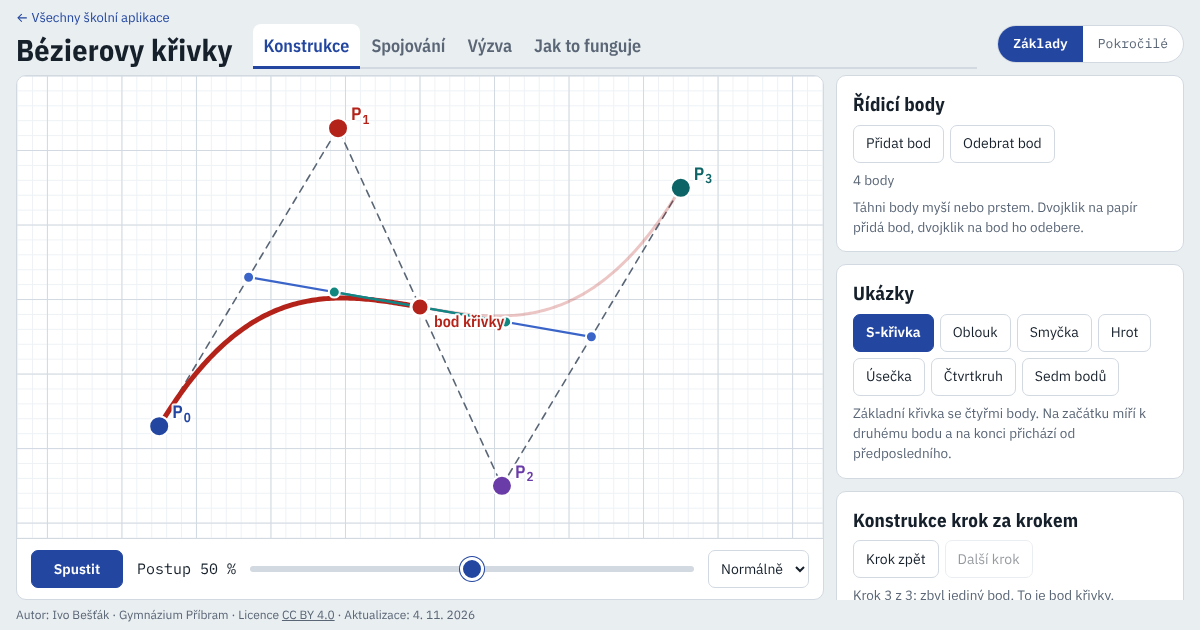
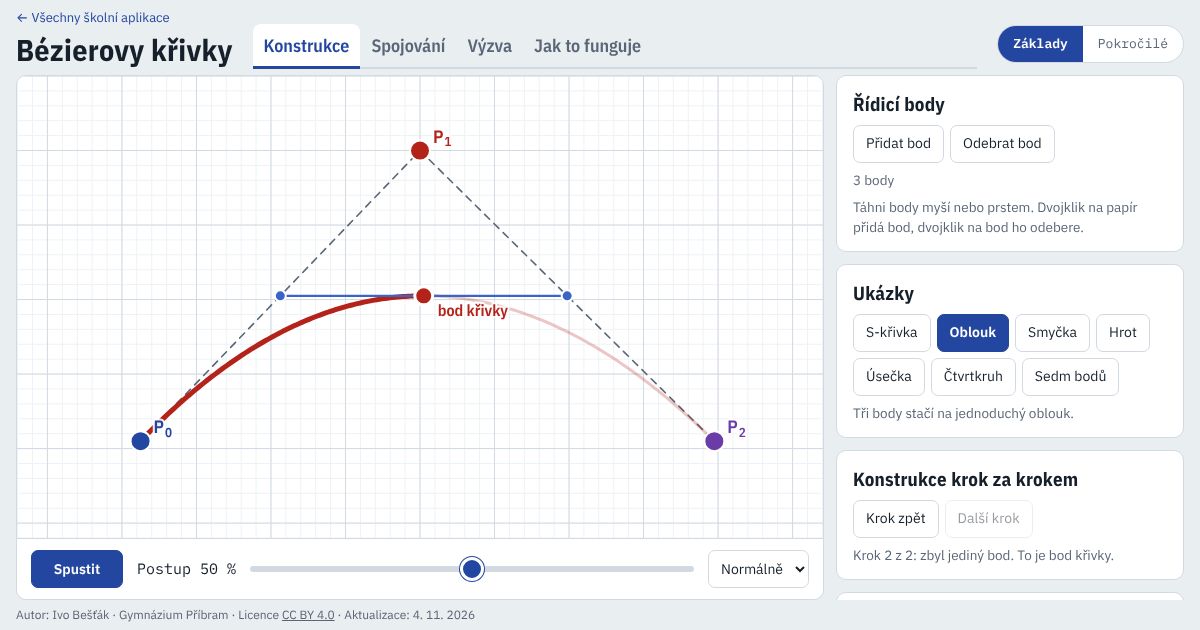
Bézierovy křivky: výchozí křivka na záložce Konstrukce je oblouk
Claude-Session: https://claude.ai/code/session_01HrWVDJB1YZHnS2ToM7iTEx

diff --git a/bezierovy-krivky/index.html b/bezierovy-krivky/index.html
@@ -591,7 +591,7 @@ const game={free:2,target:[],user:[],revealed:false,solved:false,streak:0,score:
 
 const PRESETS=[
  {id:"s",name:"S-křivka",p:[[150,470],[390,70],[610,550],[850,150]],note:"Klasická kubická křivka. Koncové tečny míří k sousedním bodům."},
- {id:"arc",name:"Oblouk",p:[[180,500],[500,60],[820,500]],note:"Tři body dávají kvadratickou křivku, část paraboly. Takové křivky používá TrueType."},
+ {id:"arc",name:"Oblouk",p:[[125,490],[500,100],[895,490]],note:"Tři body dávají kvadratickou křivku, část paraboly. Takové křivky používá TrueType."},
  {id:"loop",name:"Smyčka",p:[[300,520],[850,100],[150,100],[700,520]],note:"Když se strany polygonu kříží, křivka může protnout sama sebe."},
  {id:"cusp",name:"Hrot",p:[[200,500],[800,130],[200,130],[800,500]],note:"Pro t = 0,5 je rychlost nulová a na křivce vzniká hrot. Zapni vektor rychlosti a sleduj, jak se zkracuje.",show:{tan:true}},
  {id:"line",name:"Úsečka",p:[[120,500],[690,215],[234,443],[880,120]],note:"Všechny body leží na přímce, takže křivka je úsečka. Značky ale ukazují, že se po ní bod pohybuje nerovnoměrně.",show:{ticks:true}},
@@ -970,7 +970,7 @@ $$("[role=tab]").forEach(b=>b.onclick=()=>setMode(b.dataset.mode));
 new ResizeObserver(()=>{layout();if(state.mode==="build")drawBern();draw();}).observe(sheet);
 
 /* Start */
-layout();loadPreset(PRESETS[0]);loadChain(CHAINS[0]);loadD(SVGP[0].d,SVGP[0].note);
+layout();loadPreset(PRESETS.find(p=>p.id==="arc"));loadChain(CHAINS[0]);loadD(SVGP[0].d,SVGP[0].note);
 {let l="basic";try{l=localStorage.getItem("bezier-uroven")==="adv"?"adv":"basic";}catch{}setLevel(l);}
 let touched=false;for(const ev of["pointerdown","keydown"])addEventListener(ev,()=>touched=true,{capture:true});
 function intro(){if(reduced){setT(.5);return;}const t0=performance.now(),D=1800;(function f(n){if(touched||state.playing)return;const u=Math.min(1,(n-t0)/D),e=1-Math.pow(1-u,3);setT(.5*e);if(u<1)requestAnimationFrame(f);})(t0);}
